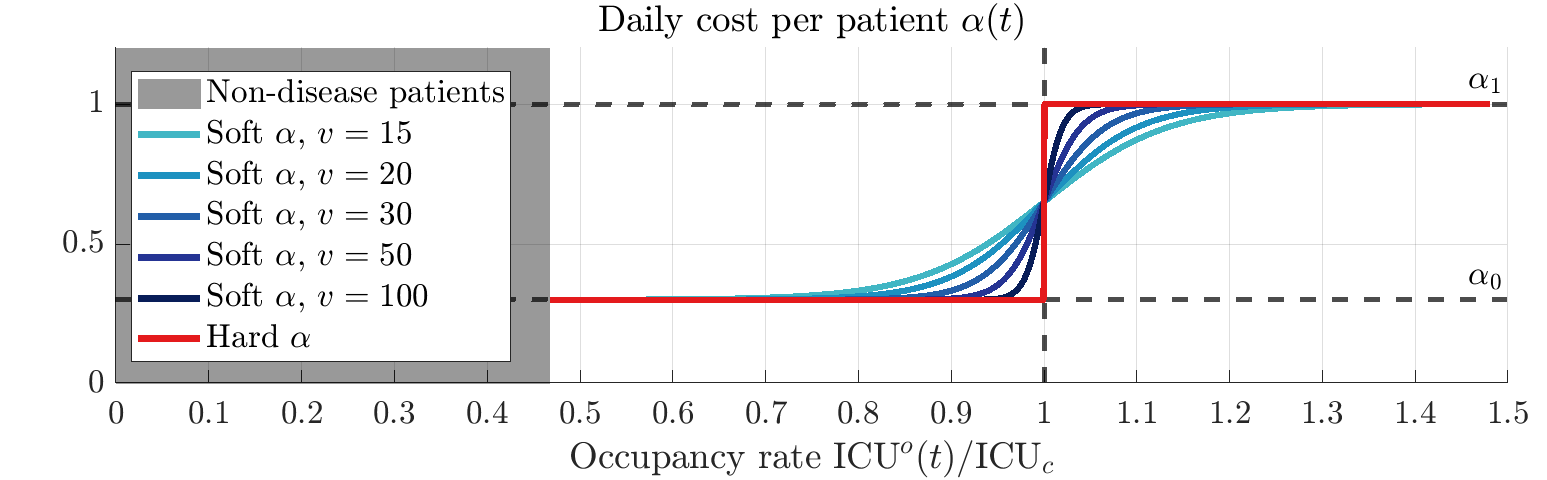
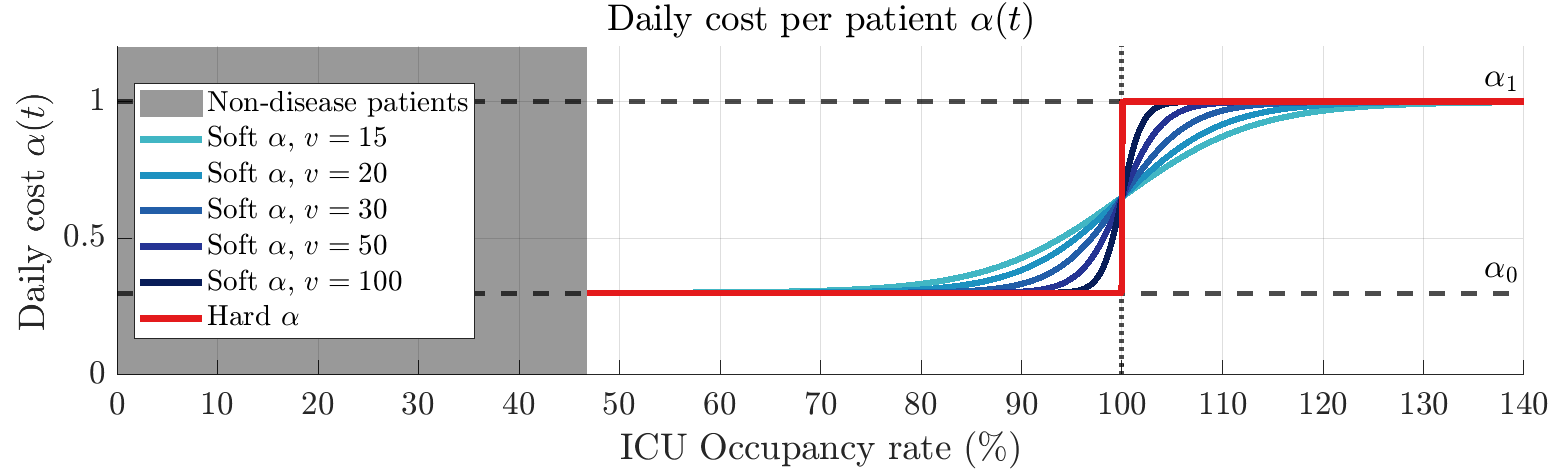
review response

diff --git a/Fig1.m b/Fig1.m
@@ -25,24 +25,27 @@ alpha_hard(ICU>=para.Ibar) = para.alpha(2);
 % PLOT ALPHA LOGISTIC FUNCTION
 vvec = [1.5 2 3 5 10].*1e1;
 
+pct = 100;
+
 f1 = figure(1);
 f1.Position = [400 1200 1000 300];
 set(gca,'InnerPosition',[0.075 0.2 0.9 0.7])
 hold all
-patch([0 0 para.eta para.eta], [0 2*para.alpha(2) 2*para.alpha(2) 0], 'k', 'FaceAlpha',0.4, 'EdgeColor','none', 'DisplayName','Non-disease patients')
+patch([0 0 pct.*para.eta 100.*para.eta], [0 2*para.alpha(2) 2*para.alpha(2) 0], 'k', 'FaceAlpha',0.4, 'EdgeColor','none', 'DisplayName','Non-disease patients')
 for v = 1:length(vvec)
     alpha_logistic = para.alpha(1) + (para.alpha(2)-para.alpha(1))./(1 + exp(-vvec(v).*(ICU./para.Ibar - 1)));
     dispname = ['Soft $\alpha$, $v = ', ' ', num2str(vvec(v)), '$'];
-    plot(ICU./para.Ibar,alpha_logistic,'Color',vcols(v,:),'DisplayName',dispname)
+    plot(pct.*ICU./para.Ibar,alpha_logistic,'Color',vcols(v,:),'DisplayName',dispname)
 end
-plot(ICU./para.Ibar,alpha_hard,'Color',myred,'DisplayName','Hard $\alpha$')
-axis([0 1.5 0 1.2*para.alpha(2)])
-legend('Location','west','AutoUpdate','off','FontSize',16)
-x1 = xline(para.Ibar./para.Ibar,'k--','','Interpreter','latex','FontSize',16,'LabelOrientation','horizontal','LabelVerticalAlignment','top','LabelHorizontalAlignment','left','LineWidth',2,'Layer','bottom');
+plot(pct.*ICU./para.Ibar,alpha_hard,'Color',myred,'DisplayName','Hard $\alpha$')
+axis([0 pct.*1.4 0 1.2*para.alpha(2)])
+legend('Location','west','AutoUpdate','off','FontSize',14)
+x1 = xline(pct.*para.Ibar./para.Ibar,'k:','','Interpreter','latex','FontSize',16,'LabelOrientation','horizontal','LabelVerticalAlignment','top','LabelHorizontalAlignment','left','LineWidth',2,'Layer','bottom');
 y1 = yline(para.alpha(1),'k--','$\alpha_0$','Interpreter','latex','FontSize',16,'LabelHorizontalAlignment','right','LineWidth',2,'Layer','bottom');
 y2 = yline(para.alpha(2),'k--','$\alpha_1$','Interpreter','latex','FontSize',16,'LabelHorizontalAlignment','right','LineWidth',2,'Layer','bottom');
-xticks(0:0.1:1.5)
-xlabel('Occupancy rate $\textrm{ICU}^o(t) / \textrm{ICU}_c$')
+xticks(pct.*(0:0.1:1.4))
+xlabel('ICU Occupancy rate $(\%)$')
+ylabel('Daily cost $\alpha(t)$')
 title('Daily cost per patient $\alpha(t)$')
 grid on
 